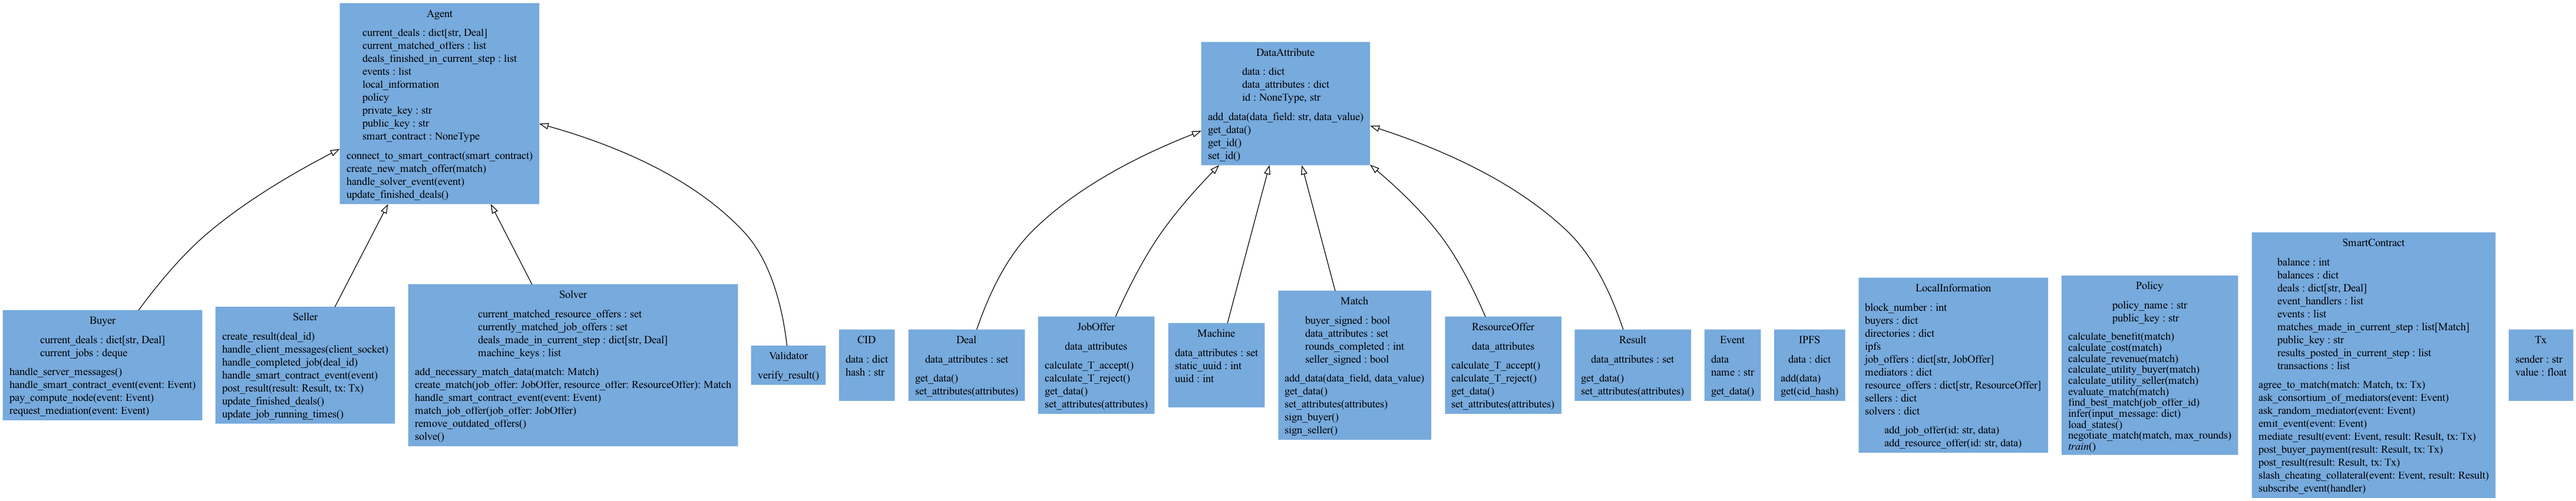
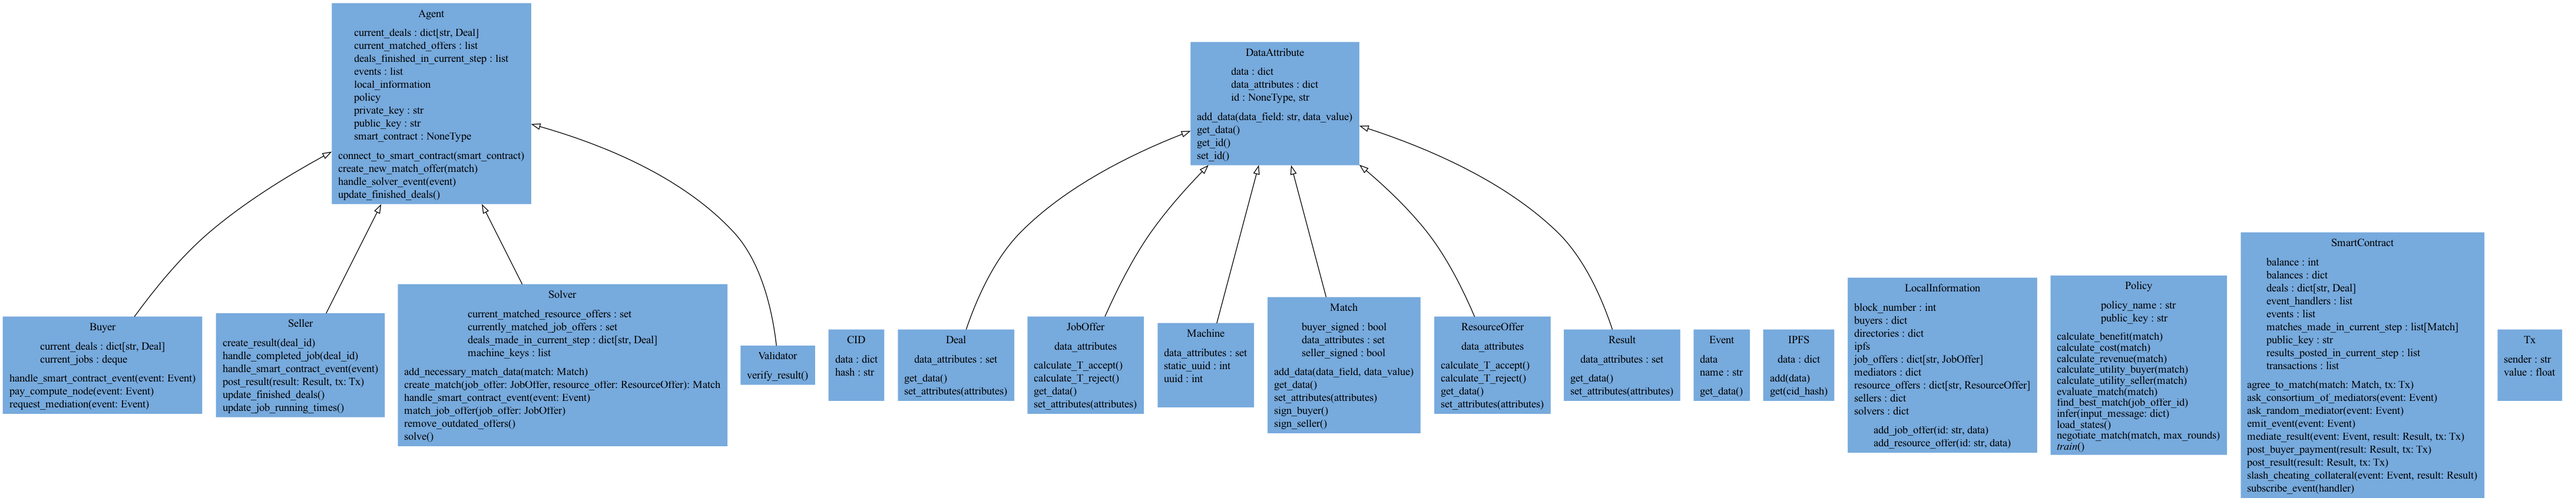
chore: refacto, close #24

diff --git a/coophive/policy.py b/coophive/policy.py
@@ -173,6 +173,30 @@ class Policy:
         expected_benefit = self.calculate_benefit(match)
         return expected_benefit - expected_cost
 
+    # def handle_server_messages(self):
+    #     """Handle incoming messages from the server."""
+    #     while True:
+    #         try:
+    #             message = message.decode("utf-8")
+    #             logging.info(f"Received message from server: {message}")
+    #             if "New match offer" in message:
+    #                 match_data = eval(message.split("New match offer: ")[1])
+    #                 new_match = Match(match_data)
+    #                 match_dict = new_match.get_data()
+    #                 if "rounds_completed" not in match_dict:
+    #                     new_match["rounds_completed"] = 0
+    #                 for existing_match in self.current_matched_offers:
+    #                     if existing_match.get_id() == new_match.get_id():
+    #                         # Continue negotiating on the existing match
+    #                         self.negotiate_match(existing_match)
+    #                         break
+    #                 else:
+    #                     # New match, add to current_matched_offers and process
+    #                     self.current_matched_offers.append(new_match)
+    #                     self.make_match_decision(new_match)
+    #         except Exception as e:
+    #             logging.info(f"Error handling message: {e}")
+
     # ------------------------------------Legacy BUYER POLICY FUNCTIONS end------------------------------------
 
     # ------------------------------------Legacy SELLER POLICY FUNCTIONS start------------------------------------
@@ -233,5 +257,39 @@ class Policy:
         """
         expected_revenue = self.calculate_revenue(match)
         return expected_revenue
+
+    # def handle_client_messages(self, client_socket):
+    #     """Handles incoming messages from a connected client."""
+    #     while True:
+    #         try:
+    #             message = client_socket.recv(1024)
+    #             if not message:
+    #                 break
+    #             # Decode the message from bytes to string
+    #             message = message.decode("utf-8")
+    #             logging.info(f"Received message from client: {message}")
+    #             if "New match offer" in message:
+    #                 match_data = eval(message.split("New match offer: ")[1])
+    #                 match = Match(match_data)
+    #                 match_dict = match.get_data()
+    #                 if "rounds_completed" not in match_dict:
+    #                     match.rounds_completed = 0
+    #                 # Check if the match is already in current_matched_offers by ID
+    #                 for existing_match in self.current_matched_offers:
+    #                     if existing_match.get_id() == match.get_id():
+    #                         # Continue negotiating on the existing match
+    #                         self.negotiate_match(existing_match)
+    #                         break
+    #                 else:
+    #                     # New match, add to current_matched_offers and process
+    #                     self.current_matched_offers.append(match)
+    #                     response = self.make_match_decision(match)
+    #                     client_socket.send(response.encode("utf-8"))
+    #         except ConnectionResetError:
+    #             logging.info("Connection lost. Closing connection.")
+    #             client_socket.close()
+    #             break
+    #         except Exception as e:
+    #             logging.info(f"Error handling message: {e}")
 
     # ------------------------------------Legacy SELLER POLICY FUNCTIONS end------------------------------------

diff --git a/coophive/seller.py b/coophive/seller.py
@@ -24,40 +24,6 @@ class Seller(Agent):
             policy_name=policy_name,
         )
 
-    def handle_client_messages(self, client_socket):
-        """Handles incoming messages from a connected client."""
-        while True:
-            try:
-                message = client_socket.recv(1024)
-                if not message:
-                    break
-                # Decode the message from bytes to string
-                message = message.decode("utf-8")
-                logging.info(f"Received message from client: {message}")
-                if "New match offer" in message:
-                    match_data = eval(message.split("New match offer: ")[1])
-                    match = Match(match_data)
-                    match_dict = match.get_data()
-                    if "rounds_completed" not in match_dict:
-                        match.rounds_completed = 0
-                    # Check if the match is already in current_matched_offers by ID
-                    for existing_match in self.current_matched_offers:
-                        if existing_match.get_id() == match.get_id():
-                            # Continue negotiating on the existing match
-                            self.negotiate_match(existing_match)
-                            break
-                    else:
-                        # New match, add to current_matched_offers and process
-                        self.current_matched_offers.append(match)
-                        response = self.make_match_decision(match)
-                        client_socket.send(response.encode("utf-8"))
-            except ConnectionResetError:
-                logging.info("Connection lost. Closing connection.")
-                client_socket.close()
-                break
-            except Exception as e:
-                logging.info(f"Error handling message: {e}")
-
     def _agree_to_match(self, match: Match):
         """Agree to a match and send a transaction to the connected smart contract.
 

diff --git a/coophive/buyer.py b/coophive/buyer.py
@@ -30,31 +30,6 @@ class Buyer(Agent):
         self.current_jobs = deque()
         self.current_deals: dict[str, Deal] = {}  # maps deal id to deals
 
-    def handle_server_messages(self):
-        """Handle incoming messages from the server."""
-        while True:
-            try:
-                break
-                message = message.decode("utf-8")
-                logging.info(f"Received message from server: {message}")
-                if "New match offer" in message:
-                    match_data = eval(message.split("New match offer: ")[1])
-                    new_match = Match(match_data)
-                    match_dict = new_match.get_data()
-                    if "rounds_completed" not in match_dict:
-                        new_match["rounds_completed"] = 0
-                    for existing_match in self.current_matched_offers:
-                        if existing_match.get_id() == new_match.get_id():
-                            # Continue negotiating on the existing match
-                            self.negotiate_match(existing_match)
-                            break
-                    else:
-                        # New match, add to current_matched_offers and process
-                        self.current_matched_offers.append(new_match)
-                        self.make_match_decision(new_match)
-            except Exception as e:
-                logging.info(f"Error handling message: {e}")
-
     def _agree_to_match(self, match: Match):
         """Agree to a match."""
         buyer_deposit = match.get_data().get("buyer_deposit")

diff --git a/tests/test_policy.py b/tests/test_policy.py
@@ -59,7 +59,6 @@ def test_make_match_decision_with_policies(setup_agents_with_policies):
     }
 
     buyer.policy = Policy(public_key=public_key_buyer, policy_name=policy_c)
-    buyer.negotiate_match = MagicMock()
 
     # TODO: make this scheme-compliant
     # TODO: more in general, test the scheme compliance of policies.
